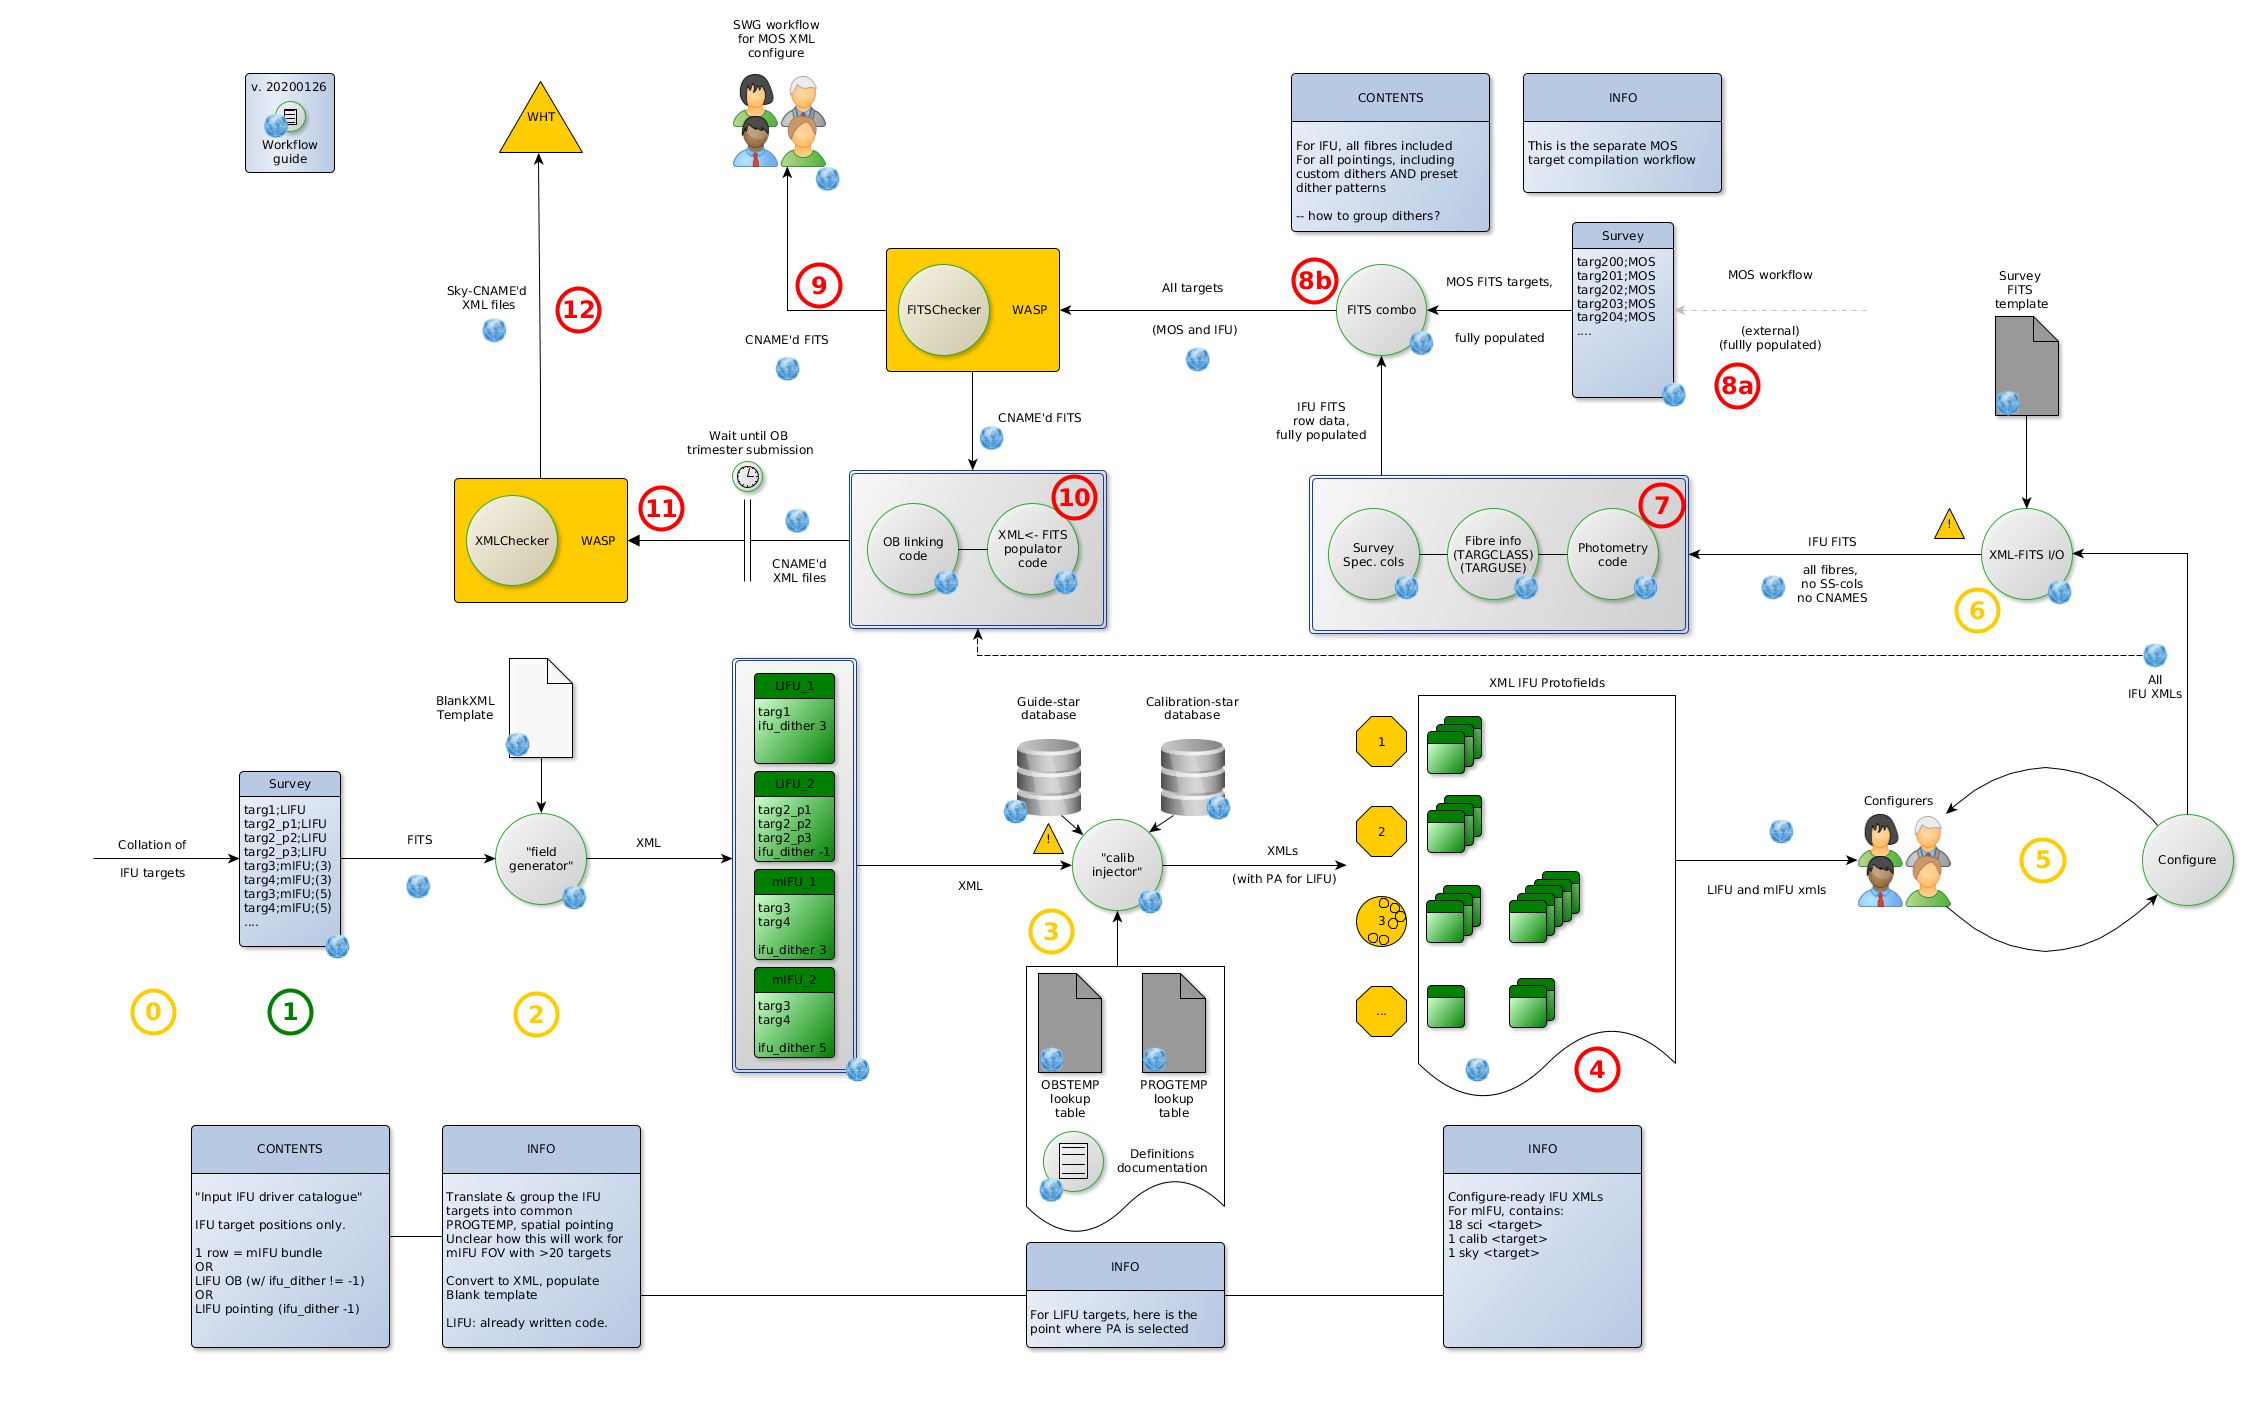
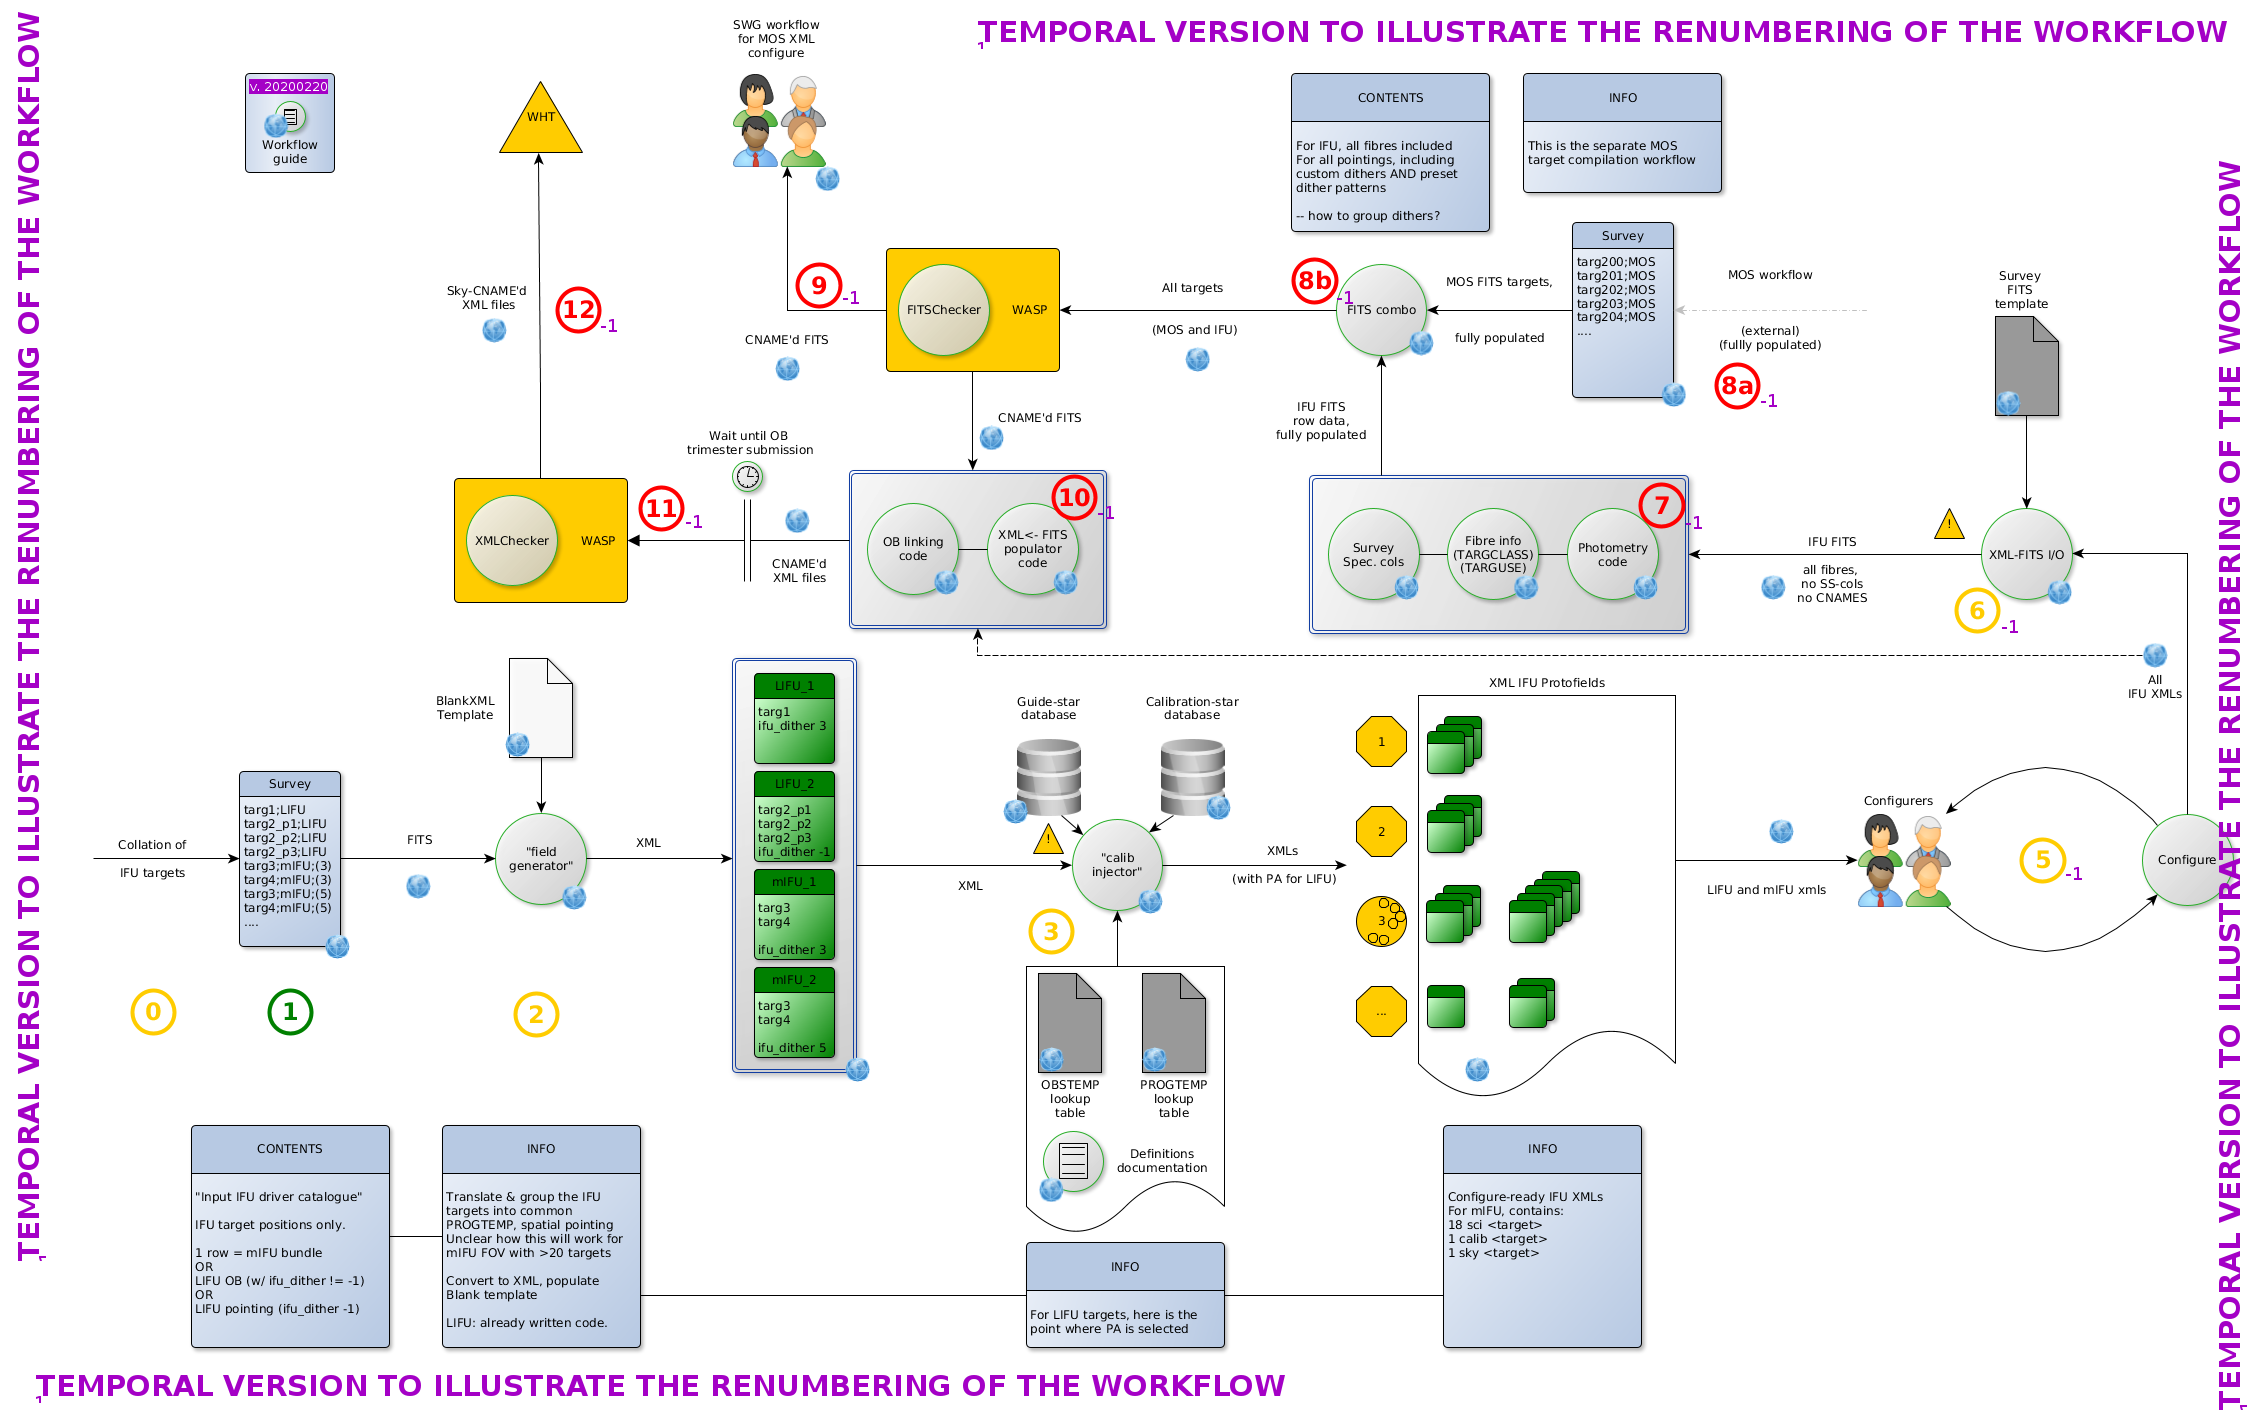
Temporal version of IFU workflow to illustrate the renumbering

diff --git a/workflow/ifu_workflow.html b/workflow/ifu_workflow.html
@@ -90,7 +90,6 @@ tooltip.style.display = "none";
 }
 </script>
 
-<div class="tooltip" id="n0">XML IFU Protofields</div>
 <div class="tooltip" id="n6">LIFU_1</div>
 <div class="tooltip" id="n7">LIFU_2</div>
 <div class="tooltip" id="n8">mIFU_1</div>
@@ -112,7 +111,7 @@ tooltip.style.display = "none";
 <div class="tooltip" id="n32">Stage 5 input files - this contains the 4 IFU XMLs at the point they are due to be submitted to Configure.</div>
 <div class="tooltip" id="n33">The underlying blank XML template. <br>All OBs are dervied from this master XML file, with specific elements updated throughout the workflow.</div>
 <div class="tooltip" id="n34">This code identifies which guide star(s) and WD calibration stars can be used for a given field, and inserts their XML data <target> representations into the "proto-field" XMLs</div>
-<div class="tooltip" id="n35">v. 20200126</div>
+<div class="tooltip" id="n35">v. 20200220</div>
 <div class="tooltip" id="n36">Notes to accompany this workflow</div>
 <div class="tooltip" id="n39">Positions of viable guidestars within the proposed FOV of the protofield.</div>
 <div class="tooltip" id="n40">HEALPix'd decomposition of the Guidestar catalogue. This is based on Gaia DR2.</div>
@@ -121,7 +120,6 @@ tooltip.style.display = "none";
 <div class="tooltip" id="n43">1</div>
 <div class="tooltip" id="n44">2</div>
 <div class="tooltip" id="n45">3</div>
-<div class="tooltip" id="n46">4</div>
 <div class="tooltip" id="n48">0</div>
 <div class="tooltip" id="n51">Survey</div>
 <div class="tooltip" id="n52">Example input IFU driver catalogue. <br>This contains the information required to produce WEAVE IFU observing blocks. <br>We provide 4 cases here, and these will evolve throughout the workflow:<br><br>1. LIFU with fixed dither pattern<br>2. LIFU with custom dither pattern<br>3. mIFU with 3-dither pattern<br>4. mIFU with 5-dither pattern<br><br>(3) and (4) are observations of the same targets.</div>
@@ -245,7 +243,6 @@ tooltip.style.display = "none";
   <area shape="rect" coords="324,934,349,959" href="https://ingbitbucket.ing.iac.es/projects/WVSWG/repos/ifu/browse/workflow/stage1/aux" alt="" onmouseover="showTooltip('n52')" onmouseout="hideTooltip()" target="_blank"/>
   <area shape="rect" coords="239,771,340,946" alt="" onmouseover="showTooltip('n51')" onmouseout="hideTooltip()"/>
   <area shape="rect" coords="132,990,174,1033" alt="" onmouseover="showTooltip('n48')" onmouseout="hideTooltip()"/>
-  <area shape="rect" coords="1576,1048,1618,1090" alt="" onmouseover="showTooltip('n46')" onmouseout="hideTooltip()"/>
   <area shape="rect" coords="1030,910,1072,952" alt="" onmouseover="showTooltip('n45')" onmouseout="hideTooltip()"/>
   <area shape="rect" coords="515,993,557,1035" alt="" onmouseover="showTooltip('n44')" onmouseout="hideTooltip()"/>
   <area shape="rect" coords="269,990,311,1033" alt="" onmouseover="showTooltip('n43')" onmouseout="hideTooltip()"/>
@@ -279,7 +276,6 @@ tooltip.style.display = "none";
   <area shape="rect" coords="754,771,834,861" alt="" onmouseover="showTooltip('n7')" onmouseout="hideTooltip()"/>
   <area shape="rect" coords="754,673,834,763" alt="" onmouseover="showTooltip('n6')" onmouseout="hideTooltip()"/>
   <area shape="rect" coords="1026,966,1224,1231" href="http://casu.ast.cam.ac.uk/~dmurphy/opr3/swg/resources/ProtoField.fits" alt="" target="_blank"/>
-  <area shape="rect" coords="1418,695,1675,1095" href="http://casu.ast.cam.ac.uk/~dmurphy/opr3/swg/resources/ProtoField.fits" alt="" onmouseover="showTooltip('n0')" onmouseout="hideTooltip()" target="_blank"/>
 </map>
 
 
